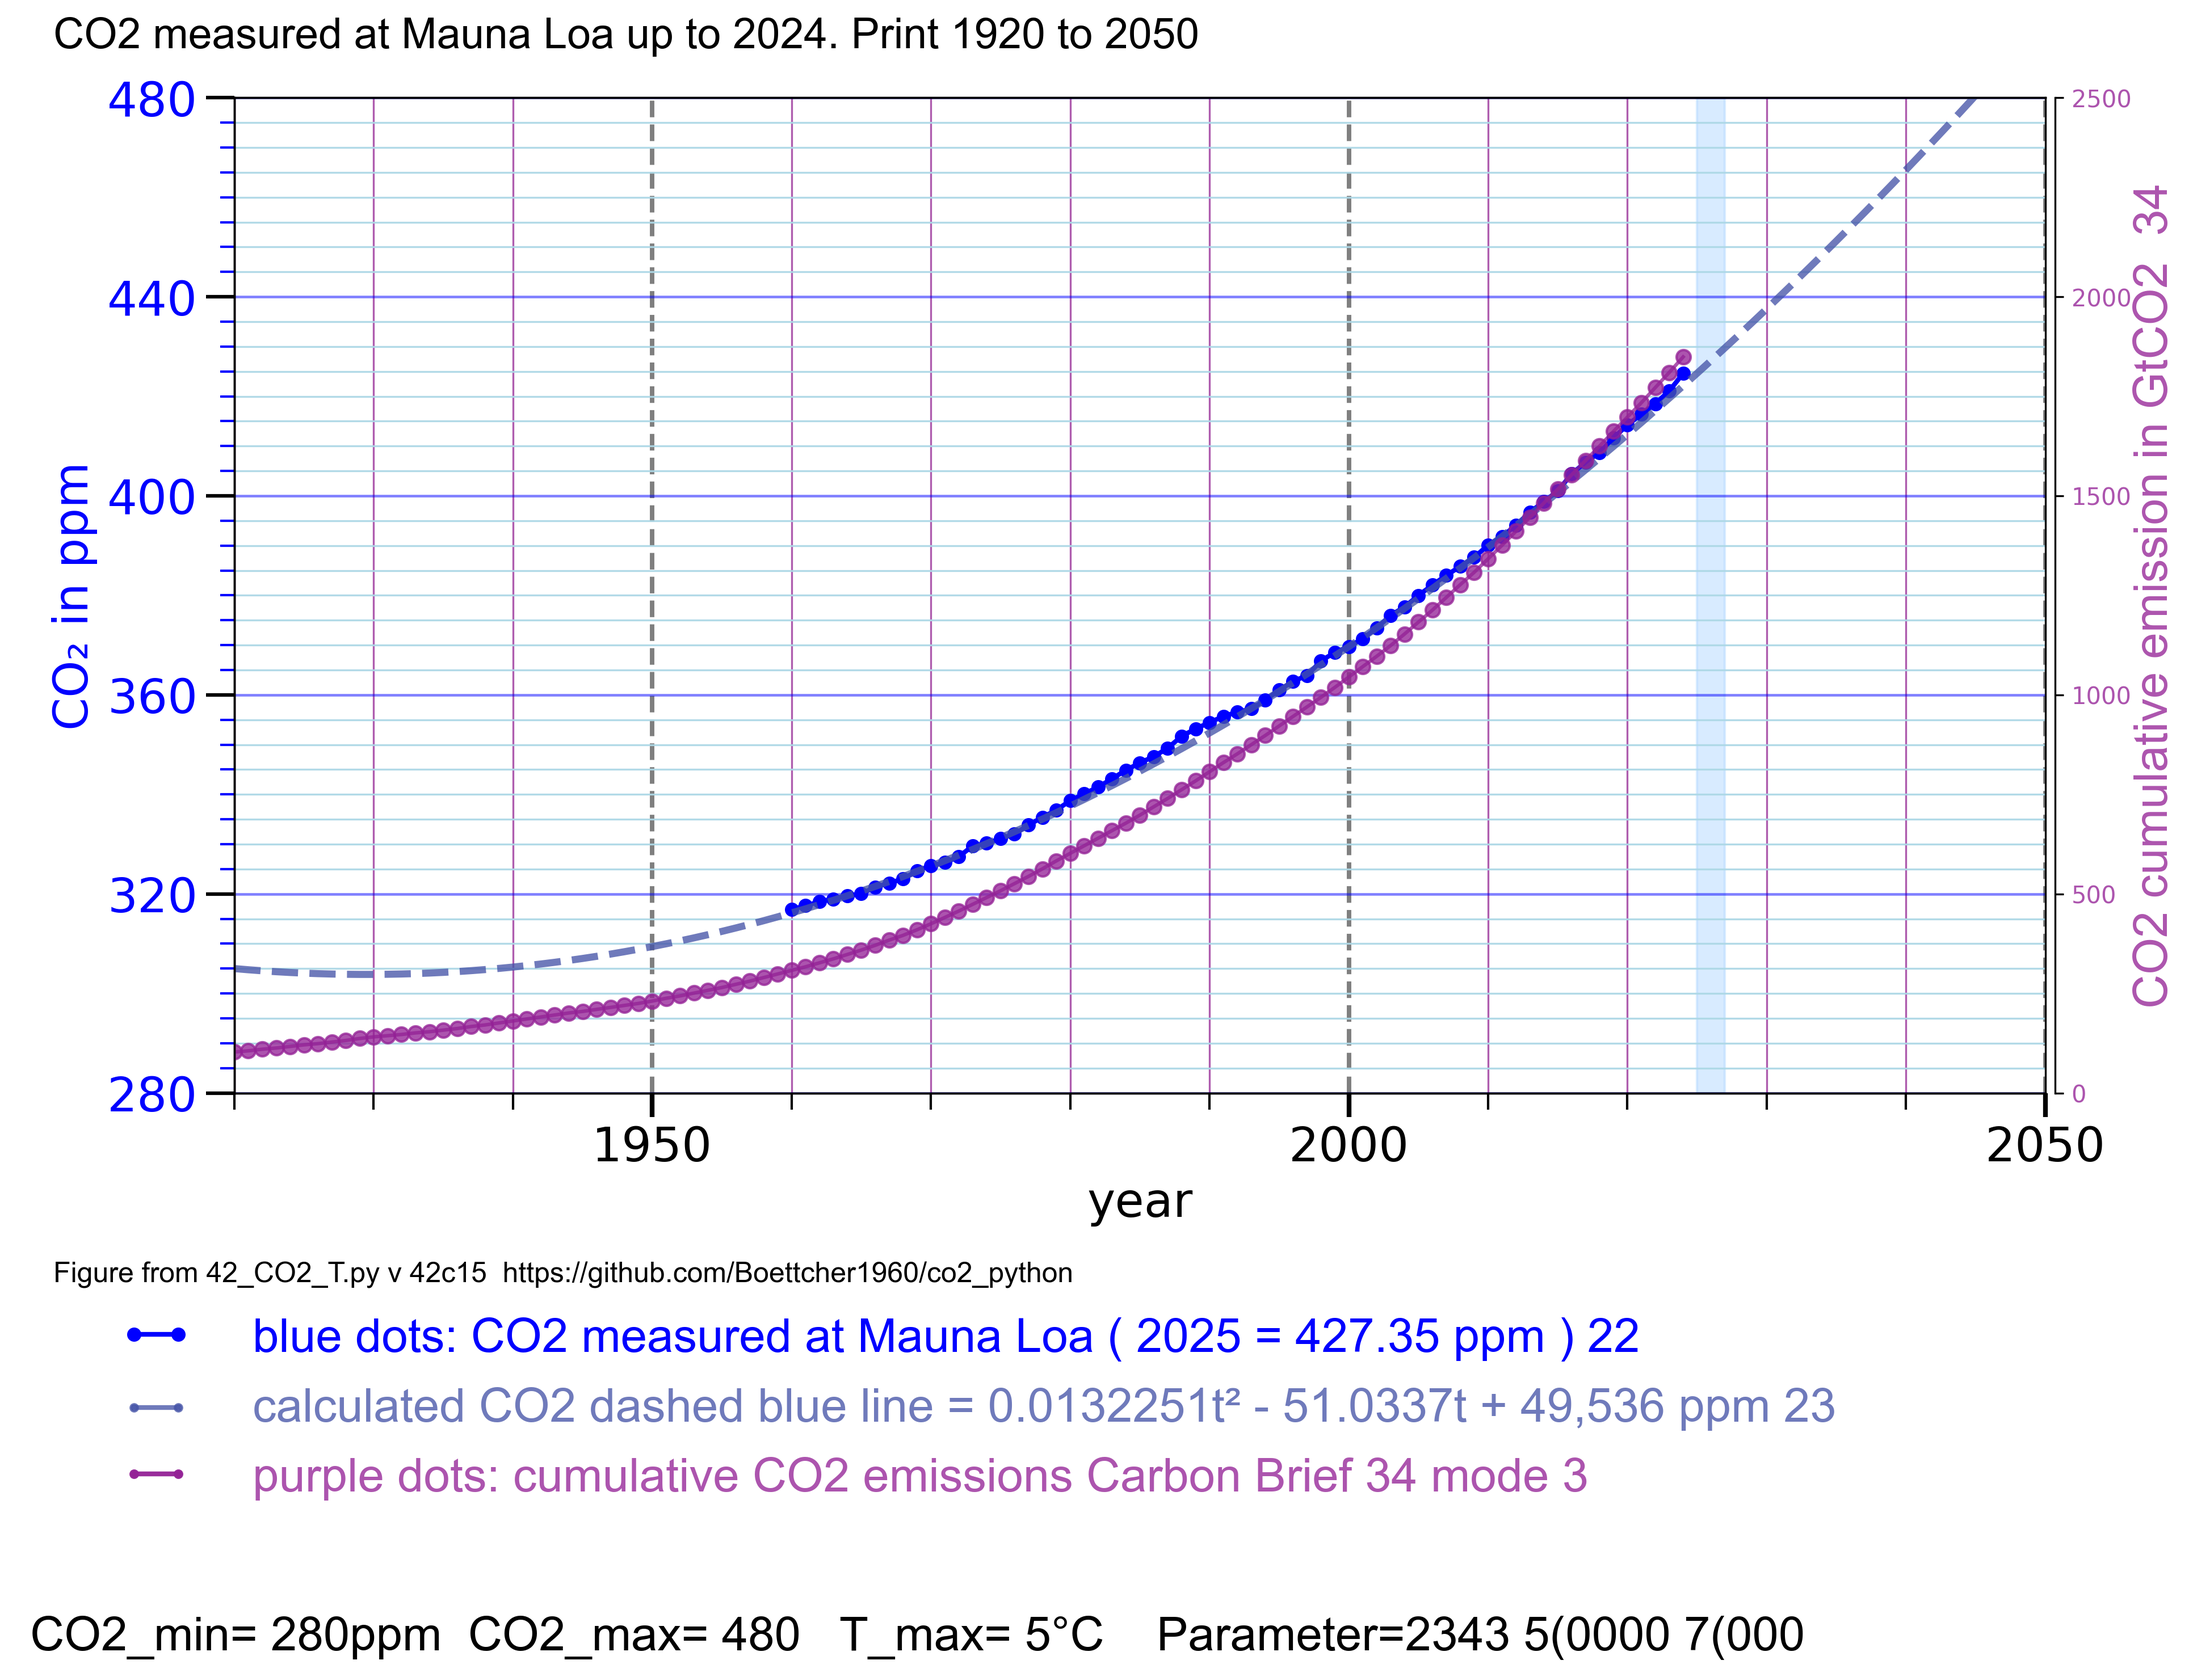
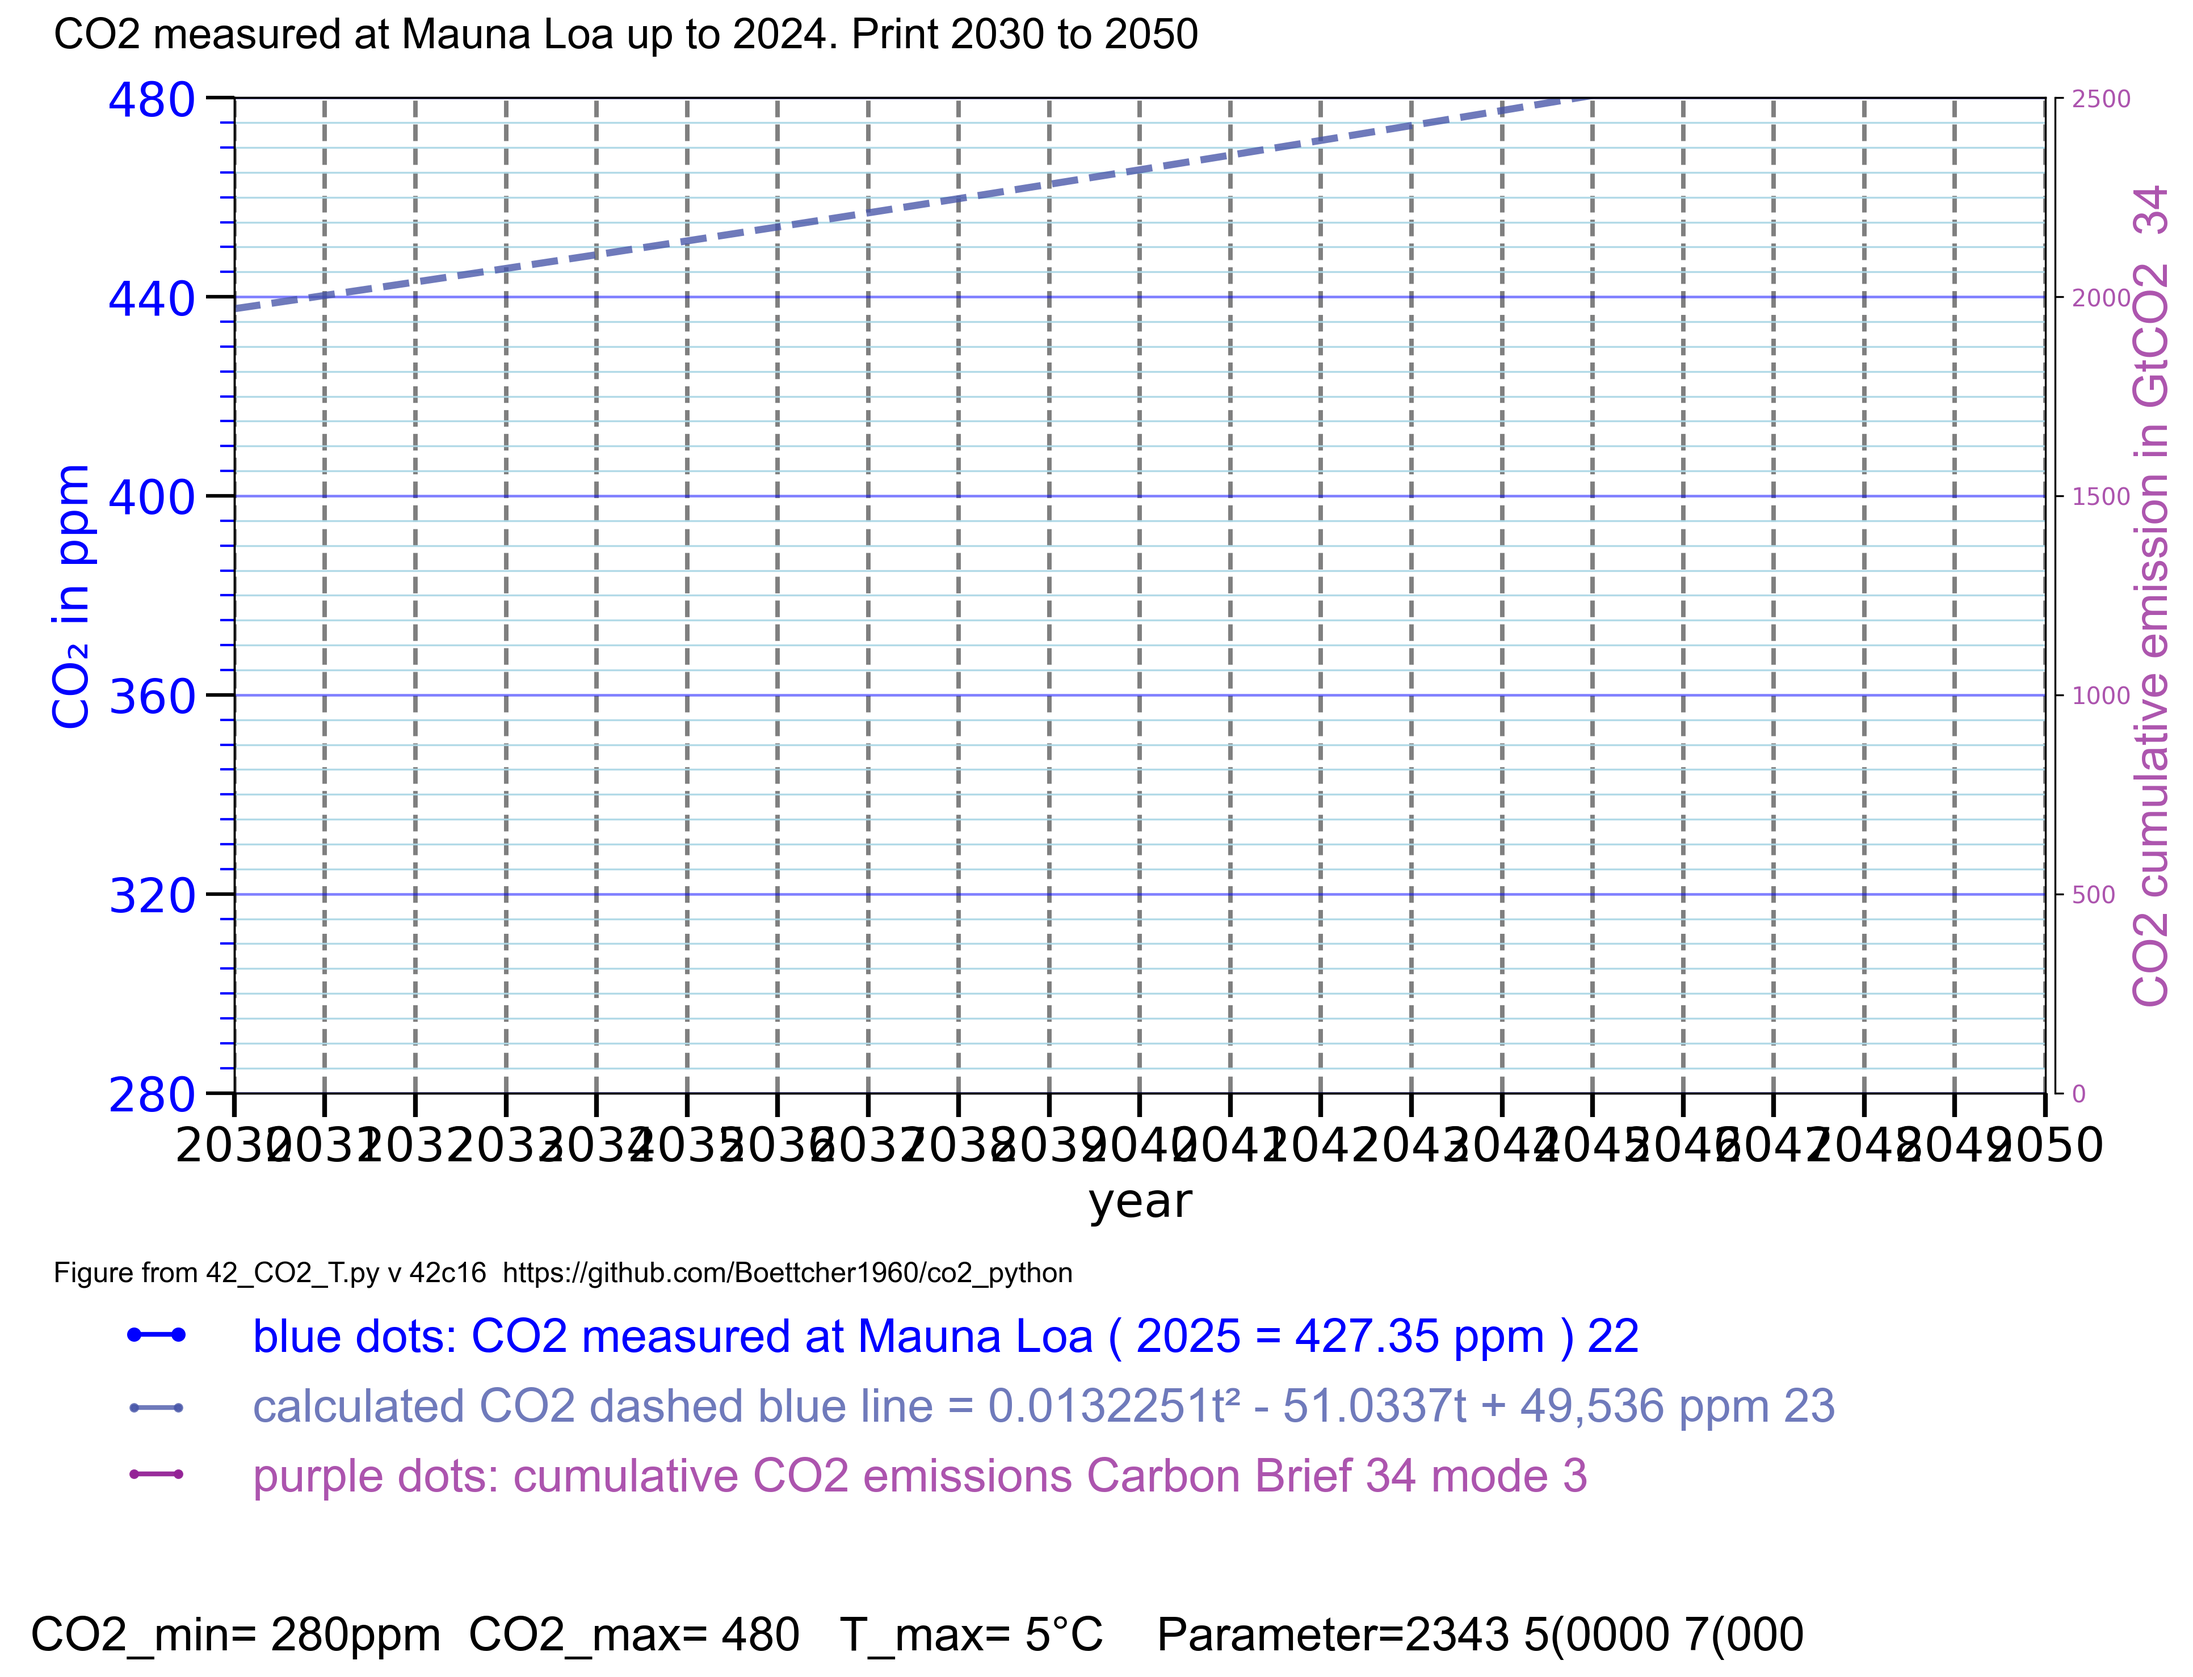
v = "42c16" # 1920 to 2050

diff --git a/42_CO2_T.py b/42_CO2_T.py
@@ -1,5 +1,5 @@
 # 42_CO2_T.py 
-v = "42c15" # 1920 to 2050 
+v = "42c16" # 1920 to 2050 
 # Thomas Boettcher
 # part 1 configure 
 # part 2.2 plot CO2 Mauna Loa
@@ -70,8 +70,8 @@ y_max = 480 # 1300 # min value 440 70
 y_Tmin = 0 # min value °C
 y_Tmax = 5 # 4 # max value C
 
-x_anf = 1920 # 1960 2000 
-x_end = 1950 # 2200 2026 
+x_anf = 2030 # 1960 2000 
+x_end = 2050 # 2200 2026 
 
 # 1.4.5 scale the text rows below the plot field
 tr1x = -0.09 # text row 1 x value -.3...1 -0.12
